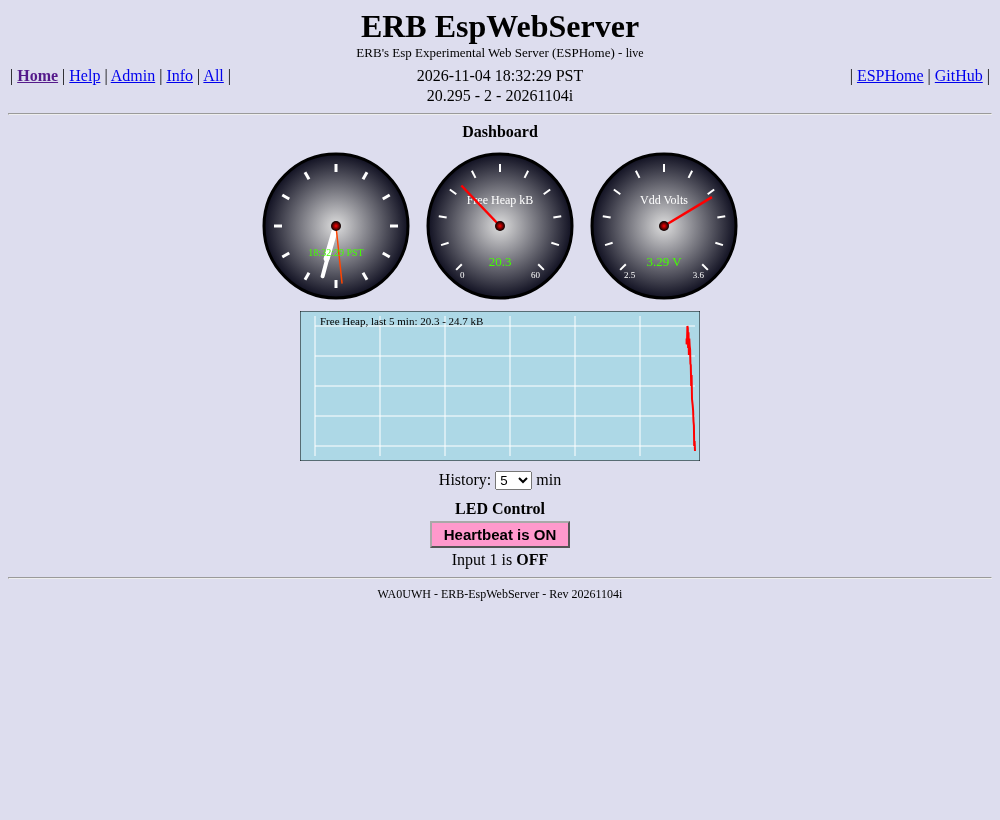
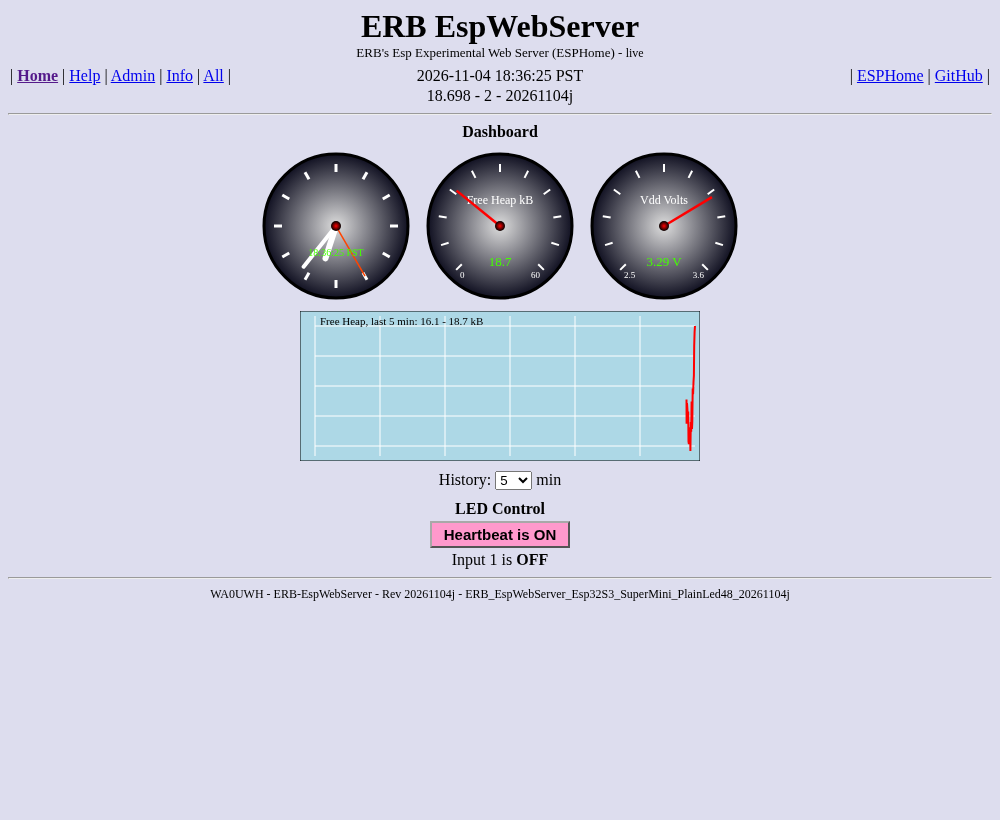
ESPHome Rev 20261104j: footer shows full Build Name / upload file name
- footer: Rev + Build Name (ftBuild, '--' if empty)
- Info tab: Upload File row (Build Name + .ota.bin)
- PlainLed48 Rev/Build_Name 20261104j; mock + PlainLed48 screenshots refreshed

diff --git a/esphome/www/erb_ui.js b/esphome/www/erb_ui.js
@@ -1,11 +1,11 @@
 // Authors: Grok and Eldon R. Brown - WA0UWH
-// Rev: 20261104i
+// Rev: 20261104j
 // ERB_UI - custom multi-page UI for the standalone ESPHome ERB-EspWebServer.
 // Recreates the 2015 Home / Help / Admin / Info pages + Navigator, from flash, no internet.
 // Data: /events SSE ("state" events, id = "<domain>/<Entity Name>"); actions: REST POST.
 (function () {
   var Hist_Min = 30, Hist = [], S = {}, Page = 'home', Hits = 0;
-  var Rev = '20261104i';
+  var Rev = '20261104j';
   var css = 'body{background:#ddddee;font-family:Times New Roman,serif;margin:8px;color:#000}' +
     'h1{text-align:center;margin:4px}h1 small{font-size:13px;font-weight:normal;display:block}' +
     '.Nav{width:100%;border-collapse:collapse}.Nav td{padding:2px}.Nav a{color:#00e;cursor:pointer;text-decoration:underline}' +
@@ -87,7 +87,7 @@
         '<br>Input 1 is <b id="v_binary_sensor_Input_1">' + Esc(V('binary_sensor/Input 1')) + '</b></div>';
     },
     info: function () {
-      return '<pre>' + Row('Build Name', 'text_sensor/Build Name') + Row('Build Time', 'text_sensor/Build Time') + Row('ESPHome', 'text_sensor/ESPHome Version') + Row('UI Rev', 'x/rev') + Row('Uptime', 'sensor/Uptime') +
+      return '<pre>' + Row('Build Name', 'text_sensor/Build Name') + '<b>Upload File</b>: <span id="infoFile">--</span>\n' + Row('Build Time', 'text_sensor/Build Time') + Row('ESPHome', 'text_sensor/ESPHome Version') + Row('UI Rev', 'x/rev') + Row('Uptime', 'sensor/Uptime') +
         Row('Reset Reason', 'text_sensor/Reset Reason') + Row('Device', 'text_sensor/Device Info') +
         Row('IP Address', 'text_sensor/IP Address') + Row('SSID', 'text_sensor/Connected SSID') + Row('BSSID', 'text_sensor/Connected BSSID') +
         Row('RSSI', 'sensor/WiFi Signal') + Row('MAC', 'text_sensor/MAC Address') + Row('Free Heap', 'sensor/Free Heap') +
@@ -132,6 +132,9 @@
   function Refresh() {
     var fh = N('sensor/Free Heap') / 1000;
     $('navStat').textContent = (isNaN(fh) ? '--' : fh.toFixed(3)) + ' - ' + Hits + ' - ' + Rev;
+    var bn = V('text_sensor/Build Name'); bn = (bn && bn != '--') ? bn : '';
+    if ($('ftBuild')) $('ftBuild').textContent = bn || '--';
+    if ($('infoFile')) $('infoFile').textContent = bn ? bn + '.ota.bin' : '--';
     SetInst('gHeap', fh, isNaN(fh) ? '--' : fh.toFixed(1));
     var t = IsS3() ? 'sensor/Chip Temp' : 'sensor/Vdd'; SetInst('gVdd', N(t), V(t));
     Object.keys(S).forEach(function (k) {
@@ -205,7 +208,7 @@
   }
   function Start() {
     document.body.innerHTML = '<h1 id="erbTitle">ERB EspWebServer<small>ERB\'s Esp Experimental Web Server (ESPHome) - <span id="Conn">connecting</span></small></h1>' +
-      '<div id="erbNav"></div><hr><div id="erbPage"></div><hr><div class="Ctr" style="font-size:12px">WA0UWH - ERB-EspWebServer - Rev ' + Rev + '</div>';
+      '<div id="erbNav"></div><hr><div id="erbPage"></div><hr><div class="Ctr" style="font-size:12px">WA0UWH - ERB-EspWebServer - Rev ' + Rev + ' - <span id="ftBuild">--</span></div>';
     S['x/rev'] = { state: Rev };
     Show('home'); Connect(); setInterval(Tick, 1000); setInterval(DrawLine, 10000);
   }

diff --git a/esphome/mock/Mock_Server.js b/esphome/mock/Mock_Server.js
@@ -1,5 +1,5 @@
 // Authors: Grok and Eldon R. Brown - WA0UWH
-// Rev: 20261104i
+// Rev: 20261104j
 // Mock_Server - fakes the ESPHome v3 web_server (index, /0.js, /events SSE, POST actions)
 // (basic auth guest:grest only when MOCK_AUTH=1) so www/erb_ui.js can be tested in a browser. Usage: node Mock_Server.js [port]
 const http = require('http'), fs = require('fs'), path = require('path');
@@ -8,7 +8,7 @@ const JS = path.join(__dirname, '..', 'www', 'erb_ui.js');
 const S = {
   'sensor/Free Heap': [23456, '23456 B'], 'sensor/Vdd': [3.29, '3.29 V'], 'sensor/WiFi Signal': [-61, '-61 dBm'],
   'sensor/Uptime': [3725, '3725 s'], 'sensor/Heap Max Block': [18000, '18000 B'], 'sensor/Loop Time': [16, '16 ms'],
-  'text_sensor/ESPHome Version': [null, '2026.10.2'], 'text_sensor/Build Name': [null, process.env.MOCK_NO_LEDS ? 'ERB_EspWebServer_Esp32S3_SuperMini_PlainLed48_20261104i' : 'ERB_EspWebServer_Esp8266_NodeMcu_20261104i'], 'text_sensor/Build Time': [null, '2026-11-04 17:55:00 -0800'], 'text_sensor/Reset Reason': [null, 'Power On'],
+  'text_sensor/ESPHome Version': [null, '2026.10.2'], 'text_sensor/Build Name': [null, process.env.MOCK_NO_LEDS ? 'ERB_EspWebServer_Esp32S3_SuperMini_PlainLed48_20261104j' : 'ERB_EspWebServer_Esp8266_NodeMcu_20261104j'], 'text_sensor/Build Time': [null, '2026-11-04 17:55:00 -0800'], 'text_sensor/Reset Reason': [null, 'Power On'],
   'text_sensor/Device Info': [null, '2026.10.2|Flash: 4096kB Speed:40MHz Mode:DIO|Chip: 0x00E42F'],
   'text_sensor/IP Address': [null, '10.10.10.42'], 'text_sensor/Connected SSID': [null, 'MockNet'],
   'text_sensor/Connected BSSID': [null, 'AA:BB:CC:DD:EE:FF'], 'text_sensor/MAC Address': [null, '5C:CF:7F:12:34:56'],

diff --git a/esphome/mock/Shoot_Tabs.js b/esphome/mock/Shoot_Tabs.js
@@ -1,5 +1,5 @@
 // Authors: Grok and Eldon R. Brown - WA0UWH
-// Rev: 20261104i
+// Rev: 20261104j
 // Shoot_Tabs - headless screenshots of each ERB UI tab against Mock_Server.js.
 const puppeteer = require('/workspace/repos/grok-voice-reader-extension/chrome-extension/node_modules/puppeteer-core');
 const Out = require('path').join(__dirname, '..', 'screens') + (process.env.MOCK_NO_LEDS ? '/PlainLed48' : '');
@@ -23,7 +23,7 @@ require('fs').mkdirSync(Out, { recursive: true });
   await p.click(`[data-pg="home"]`); await p.click('[data-led="Heartbeat"]'); await new Promise(r => setTimeout(r, 500));
   await p.click(`[data-pg="admin"]`);
   const Dlg = []; p.on('dialog', d => Dlg.push(d.message().split('\n')[0]));
-  const Fw = '/tmp/ERB_EspWebServer_Esp32S3_SuperMini_PlainLed48_20261104i.ota.bin'; require('fs').writeFileSync(Fw, Buffer.alloc(4096, 7));
+  const Fw = '/tmp/ERB_EspWebServer_Esp32S3_SuperMini_PlainLed48_20261104j.ota.bin'; require('fs').writeFileSync(Fw, Buffer.alloc(4096, 7));
   await (await p.$('#otaFile')).uploadFile(Fw);
   console.log('CHOSEN', await p.$eval('#otaName', e => e.textContent));
   await p.click('#otaF button'); await new Promise(r => setTimeout(r, 1000));

diff --git a/esphome/NOTES.md b/esphome/NOTES.md
@@ -95,3 +95,10 @@
 - Cause: the WiFi credentials were entered with improv and saved under App.get_config_version_hash() (esphome wifi_component.cpp:693-695). Any config change (rev, Build_Name, variant) changes the hash, so the new firmware forgets them. secrets.yaml WiFi values are dummy, so there is nothing to fall back on.
 - Fallback AP "ERB-EspWebServer-Setup" comes up, but its password is the dummy, which Eldon does not know.
 - Fix now: USB to web.esphome.io > Connect > Configure WiFi (improv); no reflash needed. Permanent fix: real WiFi in secrets.yaml and/or a known AP password.
+
+## 2026-11-04 6:37 PM PST - Rev 20261104j: footer shows full Build Name / upload file name
+- Rev f claimed the footer showed Build Name; it never did (only "Rev " + Rev). Fixed: footer "WA0UWH - ERB-EspWebServer - Rev 20261104j - <Build Name>" (span ftBuild, filled in Refresh(), '--' if empty).
+- Info tab: kept Build Name row, added "Upload File: <Build Name>.ota.bin" (id infoFile).
+- Mock checked (no JS errors), screens/PlainLed48/ refreshed.
+- flash/ERB_EspWebServer_Esp32S3_SuperMini_PlainLed48_20261104j.ota.bin (867024 B), .factory.bin (932560 B), Rev_20261104j.txt. Credentials baked in from secrets.yaml. NodeMCU + Ws2812 compile OK (no bins).
+- Note: PlainLed48 and Ws2812 share build dir erb-espwebserver-s3; compile PlainLed48 LAST before copying bins.
